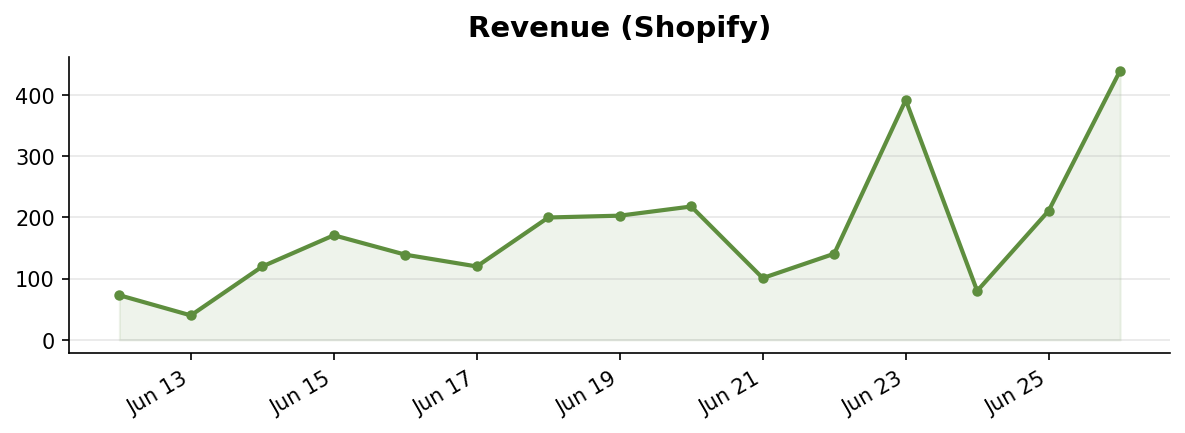
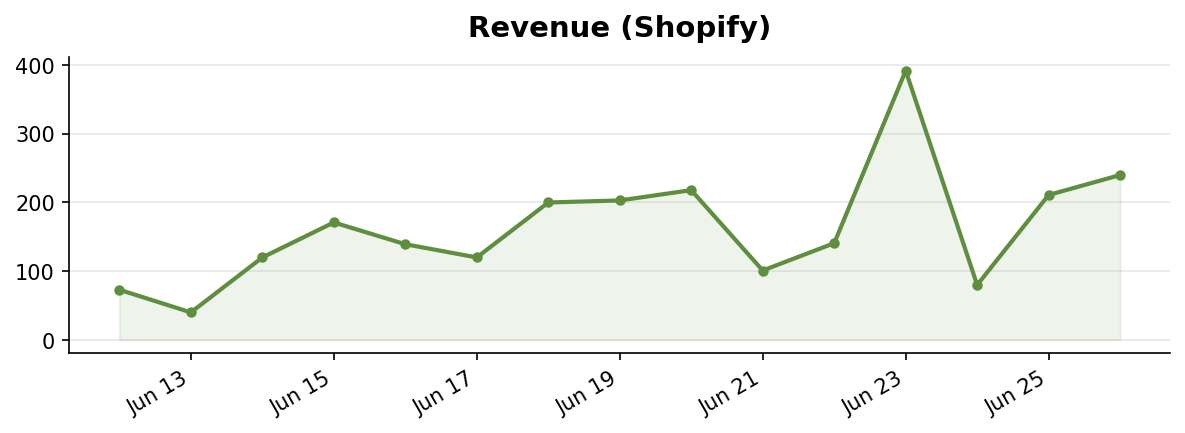
Update dashboard — 2026-06-27

diff --git a/docs/index.html b/docs/index.html
@@ -184,7 +184,7 @@
   <header>
     <span class="date-badge">2026-06-26</span>
     <h1>Daily Central Command Dashboard</h1>
-    <p>Auto-updated daily &middot; Last generated 2026-06-27 15:47 UTC</p>
+    <p>Auto-updated daily &middot; Last generated 2026-06-27 15:48 UTC</p>
   </header>
 
   <!-- Core KPIs -->
@@ -198,12 +198,12 @@
     <div class="kpi-card">
       <div class="label">Orders</div>
       <div class="source">Shopify</div>
-      <div class="value">11</div>
+      <div class="value">6</div>
     </div>
     <div class="kpi-card">
       <div class="label">Revenue</div>
       <div class="source">Shopify</div>
-      <div class="value">$439.89</div>
+      <div class="value">$239.94</div>
     </div>
     <div class="kpi-card">
       <div class="label">Ad Spend</div>
@@ -213,7 +213,7 @@
     <div class="kpi-card">
       <div class="label">CVR</div>
       <div class="source">Orders / Sessions</div>
-      <div class="value">8.94%</div>
+      <div class="value">4.88%</div>
     </div>
     <div class="kpi-card">
       <div class="label">CPP</div>
@@ -233,12 +233,12 @@
     <div class="kpi-card">
       <div class="label">ATC → Purchase</div>
       <div class="source">Orders / ATCs</div>
-      <div class="value">110.0%</div>
+      <div class="value">60.0%</div>
     </div>
     <div class="kpi-card">
       <div class="label">New Customers</div>
       <div class="source">Shopify</div>
-      <div class="value">11</div>
+      <div class="value">6</div>
     </div>
     <div class="kpi-card">
       <div class="label">Returning Customers</div>
@@ -307,13 +307,13 @@
             <td>2026-06-26</td>
             <td>123</td>
             <td>10</td>
-            <td>11</td>
-            <td>$439.89</td>
+            <td>6</td>
+            <td>$239.94</td>
             <td>$96.46</td>
             <td>$24.11</td>
-            <td class="cvr-high">8.94%</td>
-            <td>110.0%</td>
-            <td>11</td>
+            <td class="cvr-high">4.88%</td>
+            <td>60.0%</td>
+            <td>6</td>
             <td>0</td>
           </tr>
           

diff --git a/docs/analytics.html b/docs/analytics.html
@@ -199,7 +199,7 @@
   <header>
     <span class="date-badge">2026-06-26</span>
     <h1>GA4 Analytics</h1>
-    <p>Site performance &amp; paid ad analysis &middot; Generated 2026-06-27 15:47 UTC</p>
+    <p>Site performance &amp; paid ad analysis &middot; Generated 2026-06-27 15:48 UTC</p>
   </header>
 
   <!-- ═══════════ SECTION 1: SITE SUMMARY ═══════════ -->
@@ -538,6 +538,20 @@
         </tr>
       </thead>
       <tbody>
+        
+        <tr>
+          <td class="sticky-col">2026-06-26</td>
+          <td>114</td>
+          <td>102</td>
+          <td>123</td>
+          <td>297</td>
+          <td>8.9%</td>
+          <td>76s</td>
+          <td>10</td>
+          <td>5</td>
+          <td>$199.95</td>
+          <td class="cvr-high">4.07%</td>
+        </tr>
         
         <tr>
           <td class="sticky-col">2026-06-26</td>

diff --git a/docs/meta-ads.html b/docs/meta-ads.html
@@ -177,7 +177,7 @@
   <header>
     <span class="date-badge">2026-06-26</span>
     <h1>Meta Ads Daily Performance</h1>
-    <p>Paid media metrics &amp; calculated KPIs &middot; Generated 2026-06-27 15:47 UTC</p>
+    <p>Paid media metrics &amp; calculated KPIs &middot; Generated 2026-06-27 15:48 UTC</p>
   </header>
 
   <!-- ═══════════ RAW METRICS ═══════════ -->

diff --git a/docs/landing-pages.html b/docs/landing-pages.html
@@ -194,7 +194,7 @@
 
   <header>
     <h1>Landing Page Performance</h1>
-    <p>Conversion by landing page &middot; Key event: purchase &middot; Generated 2026-06-27 15:47 UTC</p>
+    <p>Conversion by landing page &middot; Key event: purchase &middot; Generated 2026-06-27 15:48 UTC</p>
   </header>
 
   <!-- Controls -->
